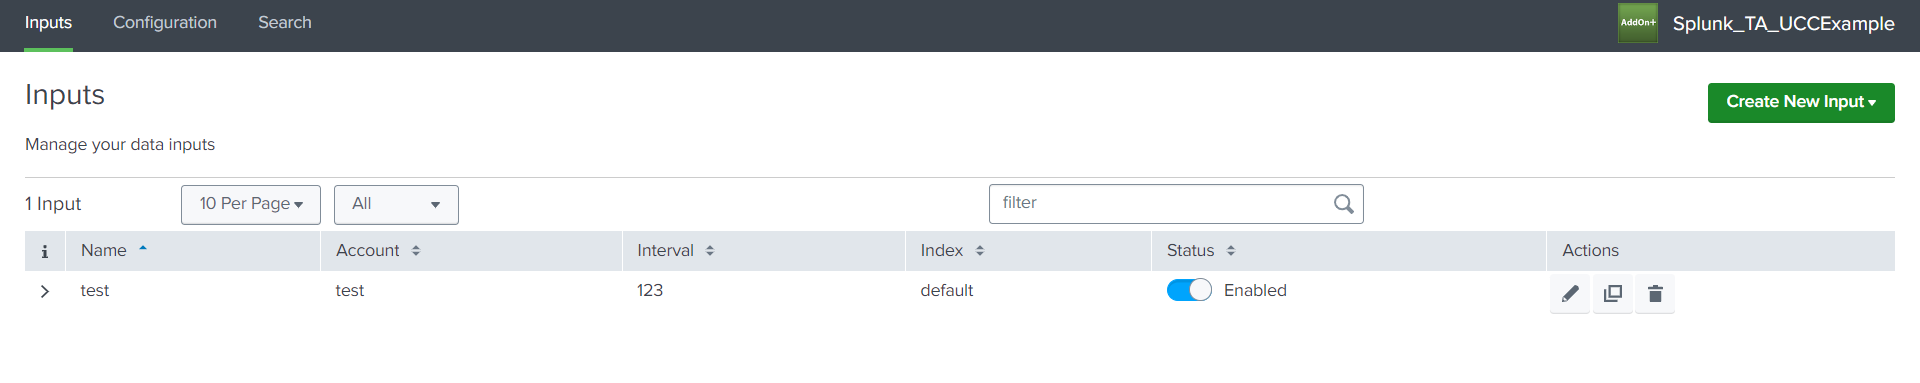
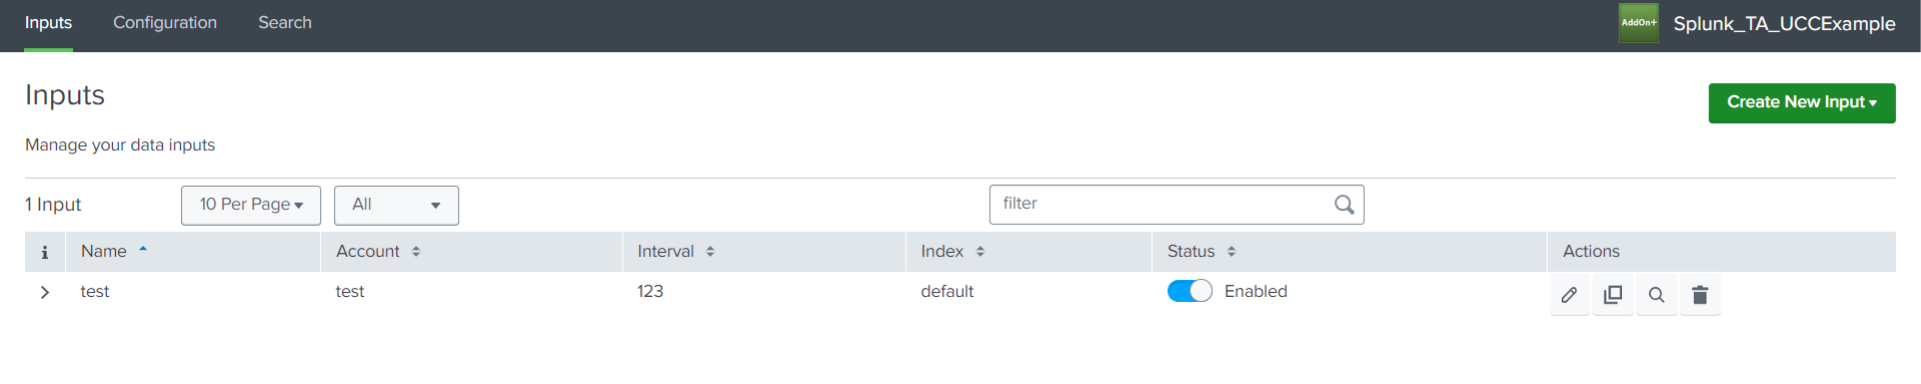
feat(search button): remove onclick and add to indicator

diff --git a/ui/src/components/table/CustomTableRow.jsx b/ui/src/components/table/CustomTableRow.jsx
@@ -38,7 +38,6 @@ function CustomTableRow(props) {
         handleToggleActionClick,
         handleEditActionClick,
         handleCloneActionClick,
-        handleSearchActionClick,
         handleDeleteActionClick,
     } = props;
 
@@ -80,8 +79,13 @@ function CustomTableRow(props) {
                             <ActionButtonComponent
                                 appearance="flat"
                                 icon={<Magnifier screenReaderText={null} size={1} />}
-                                onClick={() => handleSearchActionClick(selectedRow)}
+                                to={`/app/search/search?q=search%20index%3D_internal%20source%3D*${selectedRow.name}*`}
                                 className="searchBtn"
+                                style={{
+                                    display: 'inline-flex',
+                                    justifyContent: 'center',
+                                }}
+                                inline
                             />
                         </Tooltip>
                     )}
@@ -191,7 +195,6 @@ CustomTableRow.propTypes = {
     handleToggleActionClick: PropTypes.func,
     handleEditActionClick: PropTypes.func,
     handleCloneActionClick: PropTypes.func,
-    handleSearchActionClick: PropTypes.func,
     handleDeleteActionClick: PropTypes.func,
 };
 

diff --git a/ui/src/components/table/CustomTable.jsx b/ui/src/components/table/CustomTable.jsx
@@ -127,13 +127,6 @@ function CustomTable({
         [entityModal]
     );
 
-    const handleSearchActionClick = (selectedRow) => {
-        window.open(
-            `/app/search/search?q=search%20index%3D_internal%20source%3D*${selectedRow.name}*`,
-            '_blank'
-        );
-    };
-
     const handleDeleteActionClick = useCallback(
         (selectedRow) => {
             setDeleteModal({
@@ -239,7 +232,6 @@ function CustomTable({
                         {...{
                             handleEditActionClick,
                             handleCloneActionClick,
-                            handleSearchActionClick,
                             handleDeleteActionClick,
                         }}
                         handleToggleActionClick={handleToggleActionClick}

diff --git a/ui/src/types/globalConfig/pages.ts b/ui/src/types/globalConfig/pages.ts
@@ -20,7 +20,7 @@ export const TableSchema = z.object({
         })
     ),
     customRow: z.record(z.any()).optional(),
-    actions: z.array(z.enum(['edit', 'delete', 'clone', 'enable'])),
+    actions: z.array(z.enum(['edit', 'delete', 'clone', 'enable', 'search'])),
 });
 
 // TODO add "required": ["entity", "name", "title"] or required": ["customTab", "name", "title"]

diff --git a/ui/src/components/table/TableExpansionRow.jsx b/ui/src/components/table/TableExpansionRow.jsx
@@ -1,7 +1,6 @@
 import React from 'react';
 import DL from '@splunk/react-ui/DefinitionList';
 import Table from '@splunk/react-ui/Table';
-import Button from '@splunk/react-ui/Button';
 import styled from 'styled-components';
 import { _ } from '@splunk/ui-utils/i18n';
 

diff --git a/docs/inputs/index.md b/docs/inputs/index.md
@@ -63,6 +63,7 @@ This is how the global configuration looks like without tabs:
                 "edit",
                 "enable",
                 "delete",
+                "search",
                 "clone"
             ],
             "header": [],
